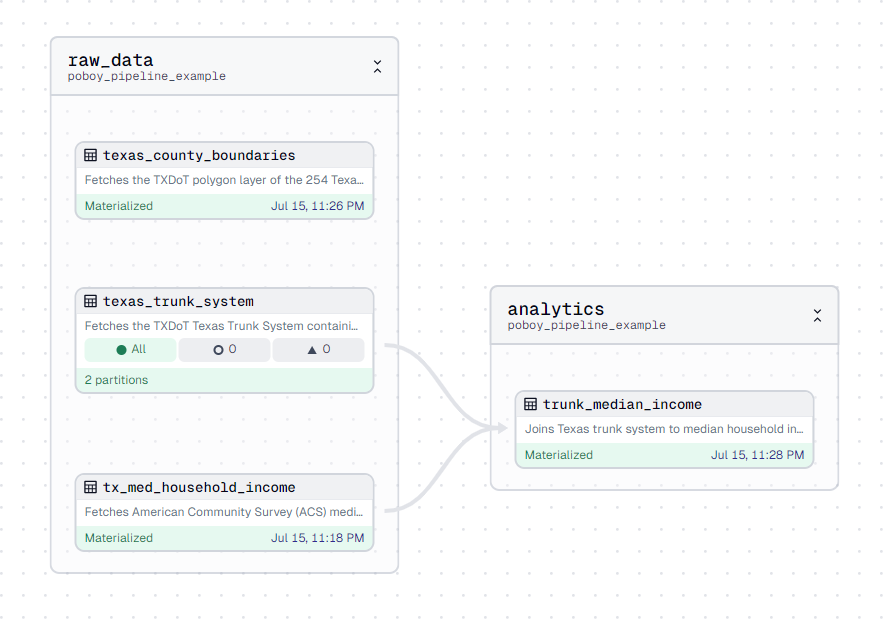
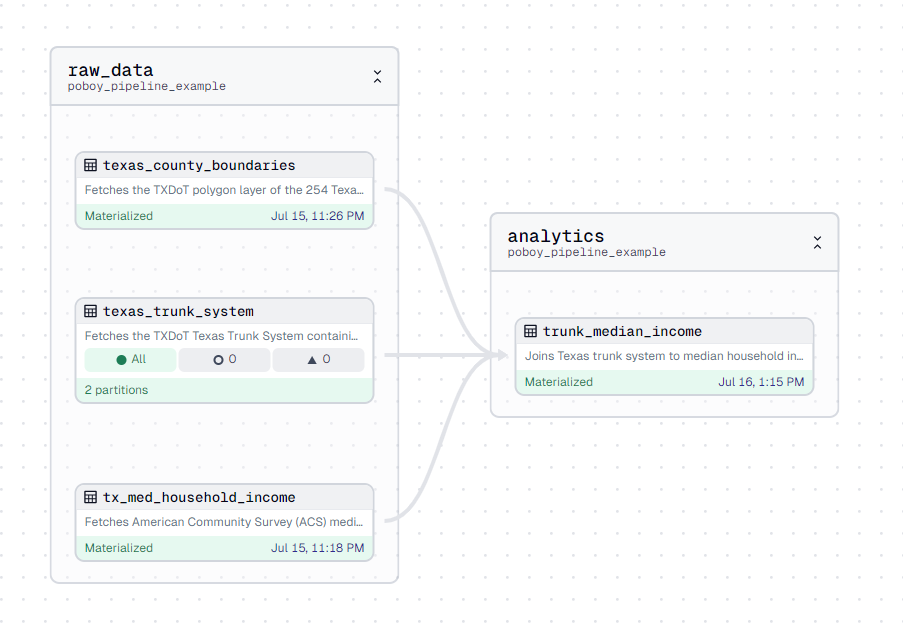
Updated defs and example pic

diff --git a/poboy-pipeline-example/poboy_pipeline_example/assets.py b/poboy-pipeline-example/poboy_pipeline_example/assets.py
@@ -91,7 +91,7 @@ def tx_med_household_income(context: AssetExecutionContext, feature_server: ArcG
 @asset(
     group_name='analytics',
     metadata={"layer": "enriched", "source": "analytics", "data_category": "vector", "segmentation": "full_snapshots"},
-    deps = [texas_trunk_system, tx_med_household_income]
+    deps = [texas_trunk_system, tx_med_household_income, texas_county_boundaries]
 )
 def trunk_median_income(context: AssetExecutionContext, r2_datastore: CloudflareR2DataStore):
     """Joins Texas trunk system to median household income. Filters by select counties."""
@@ -118,6 +118,6 @@ def trunk_median_income(context: AssetExecutionContext, r2_datastore: Cloudflare
     # Clip combined gdf to only our desired county boundary areas
     combined_gdf = combined_gdf.clip(tx_counties)
 
-    
     r2_datastore.write_gpq(context, combined_gdf)
+    
     return combined_gdf
